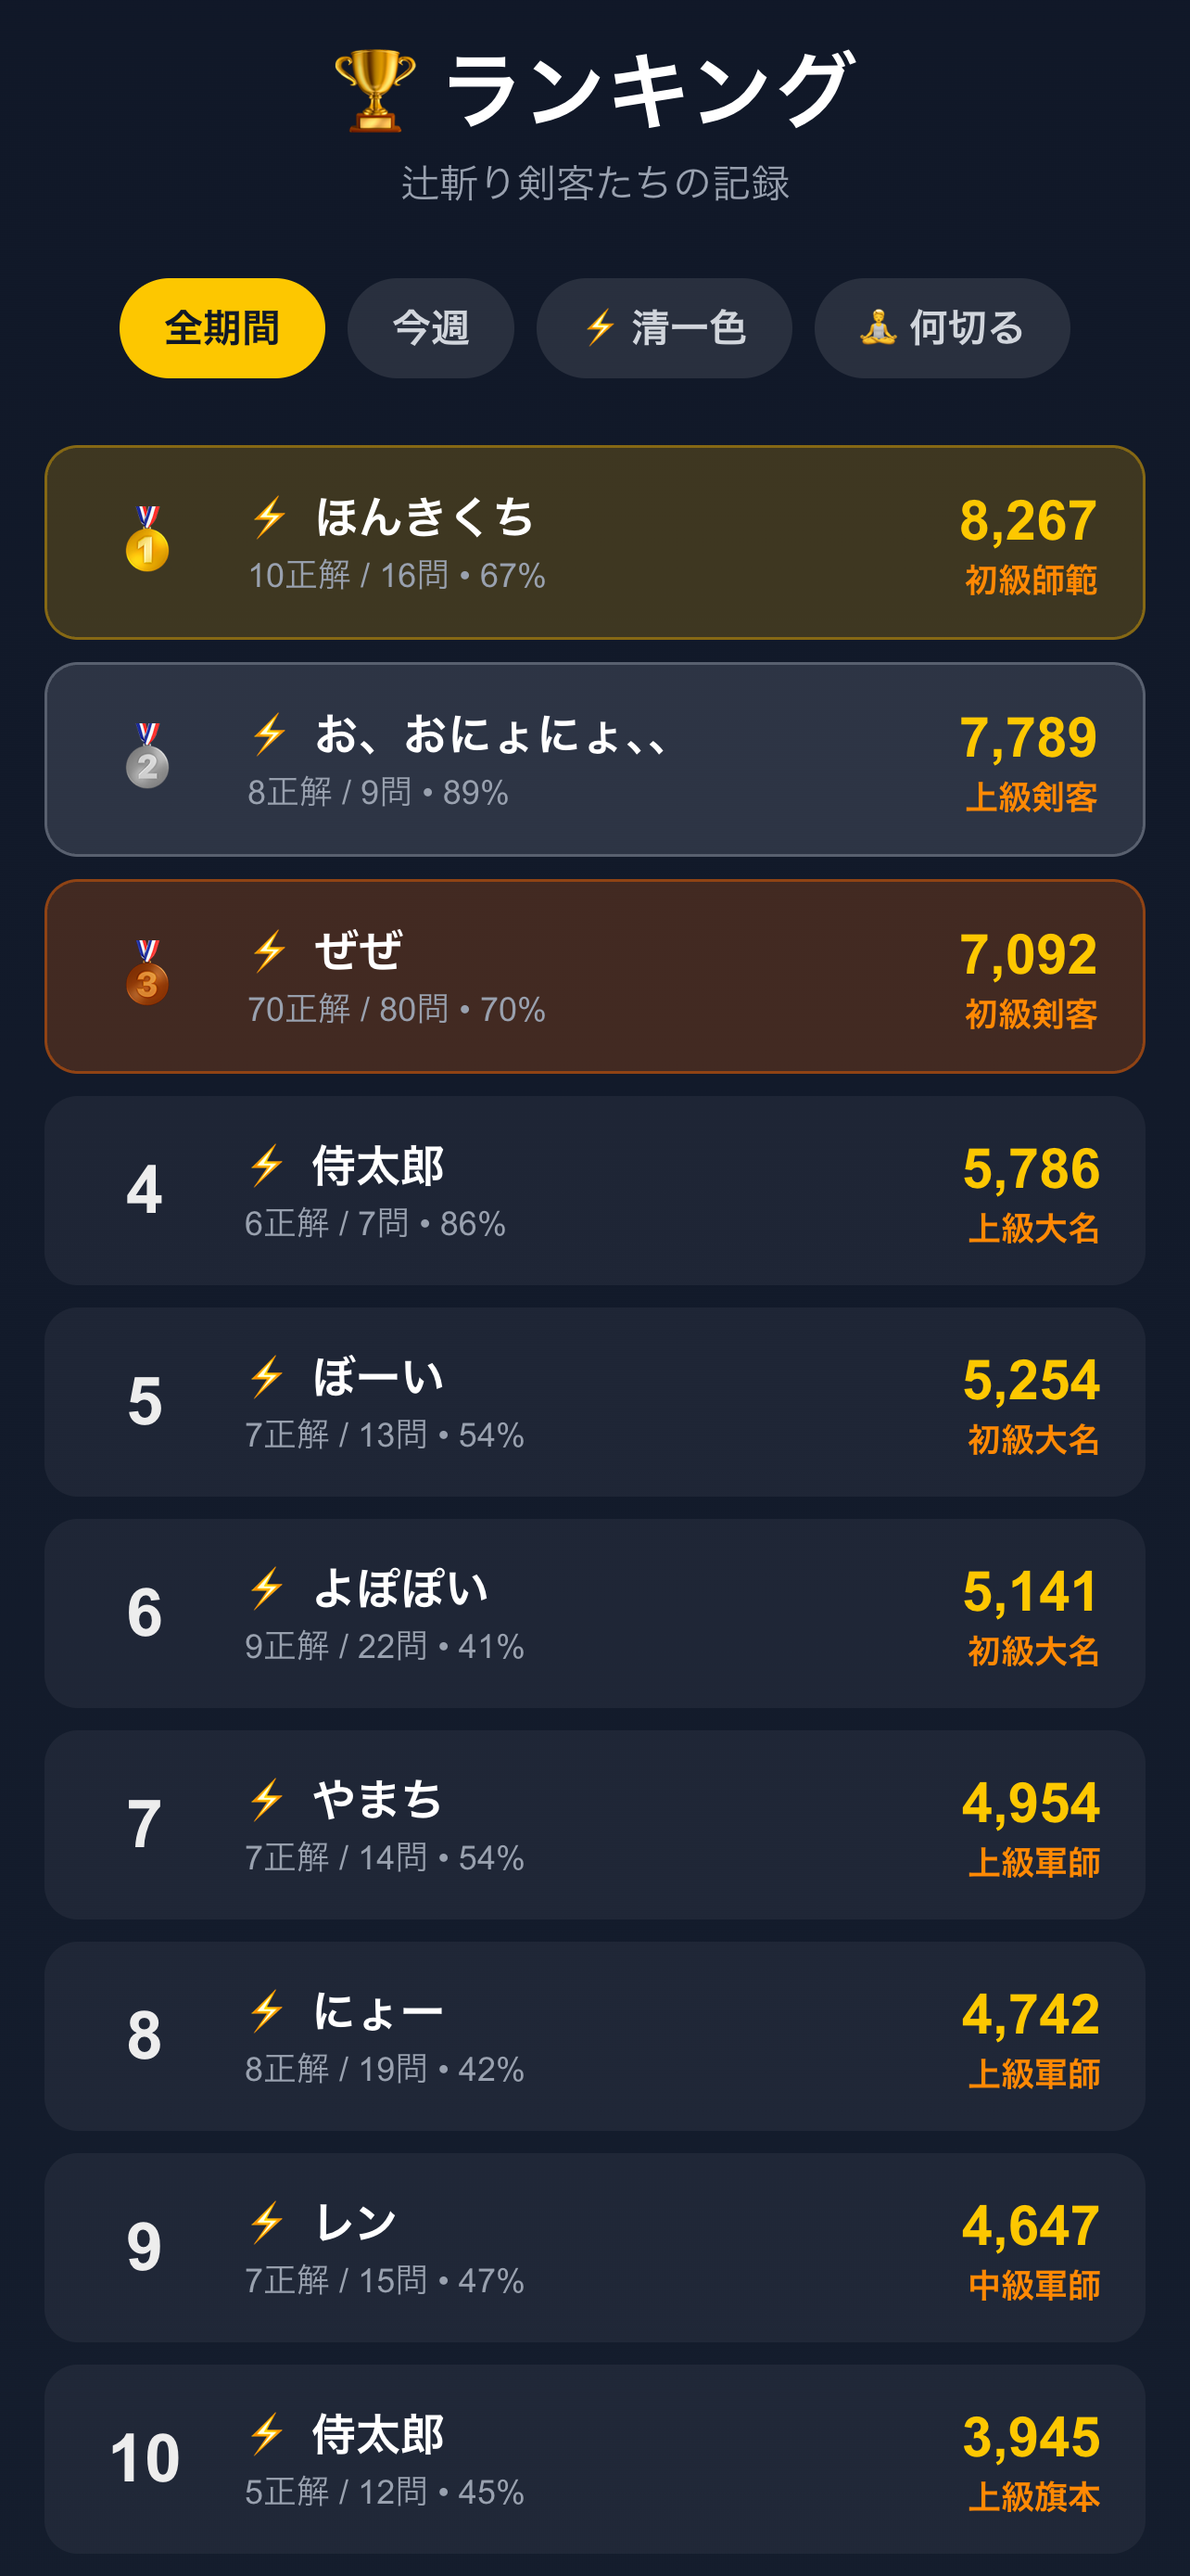
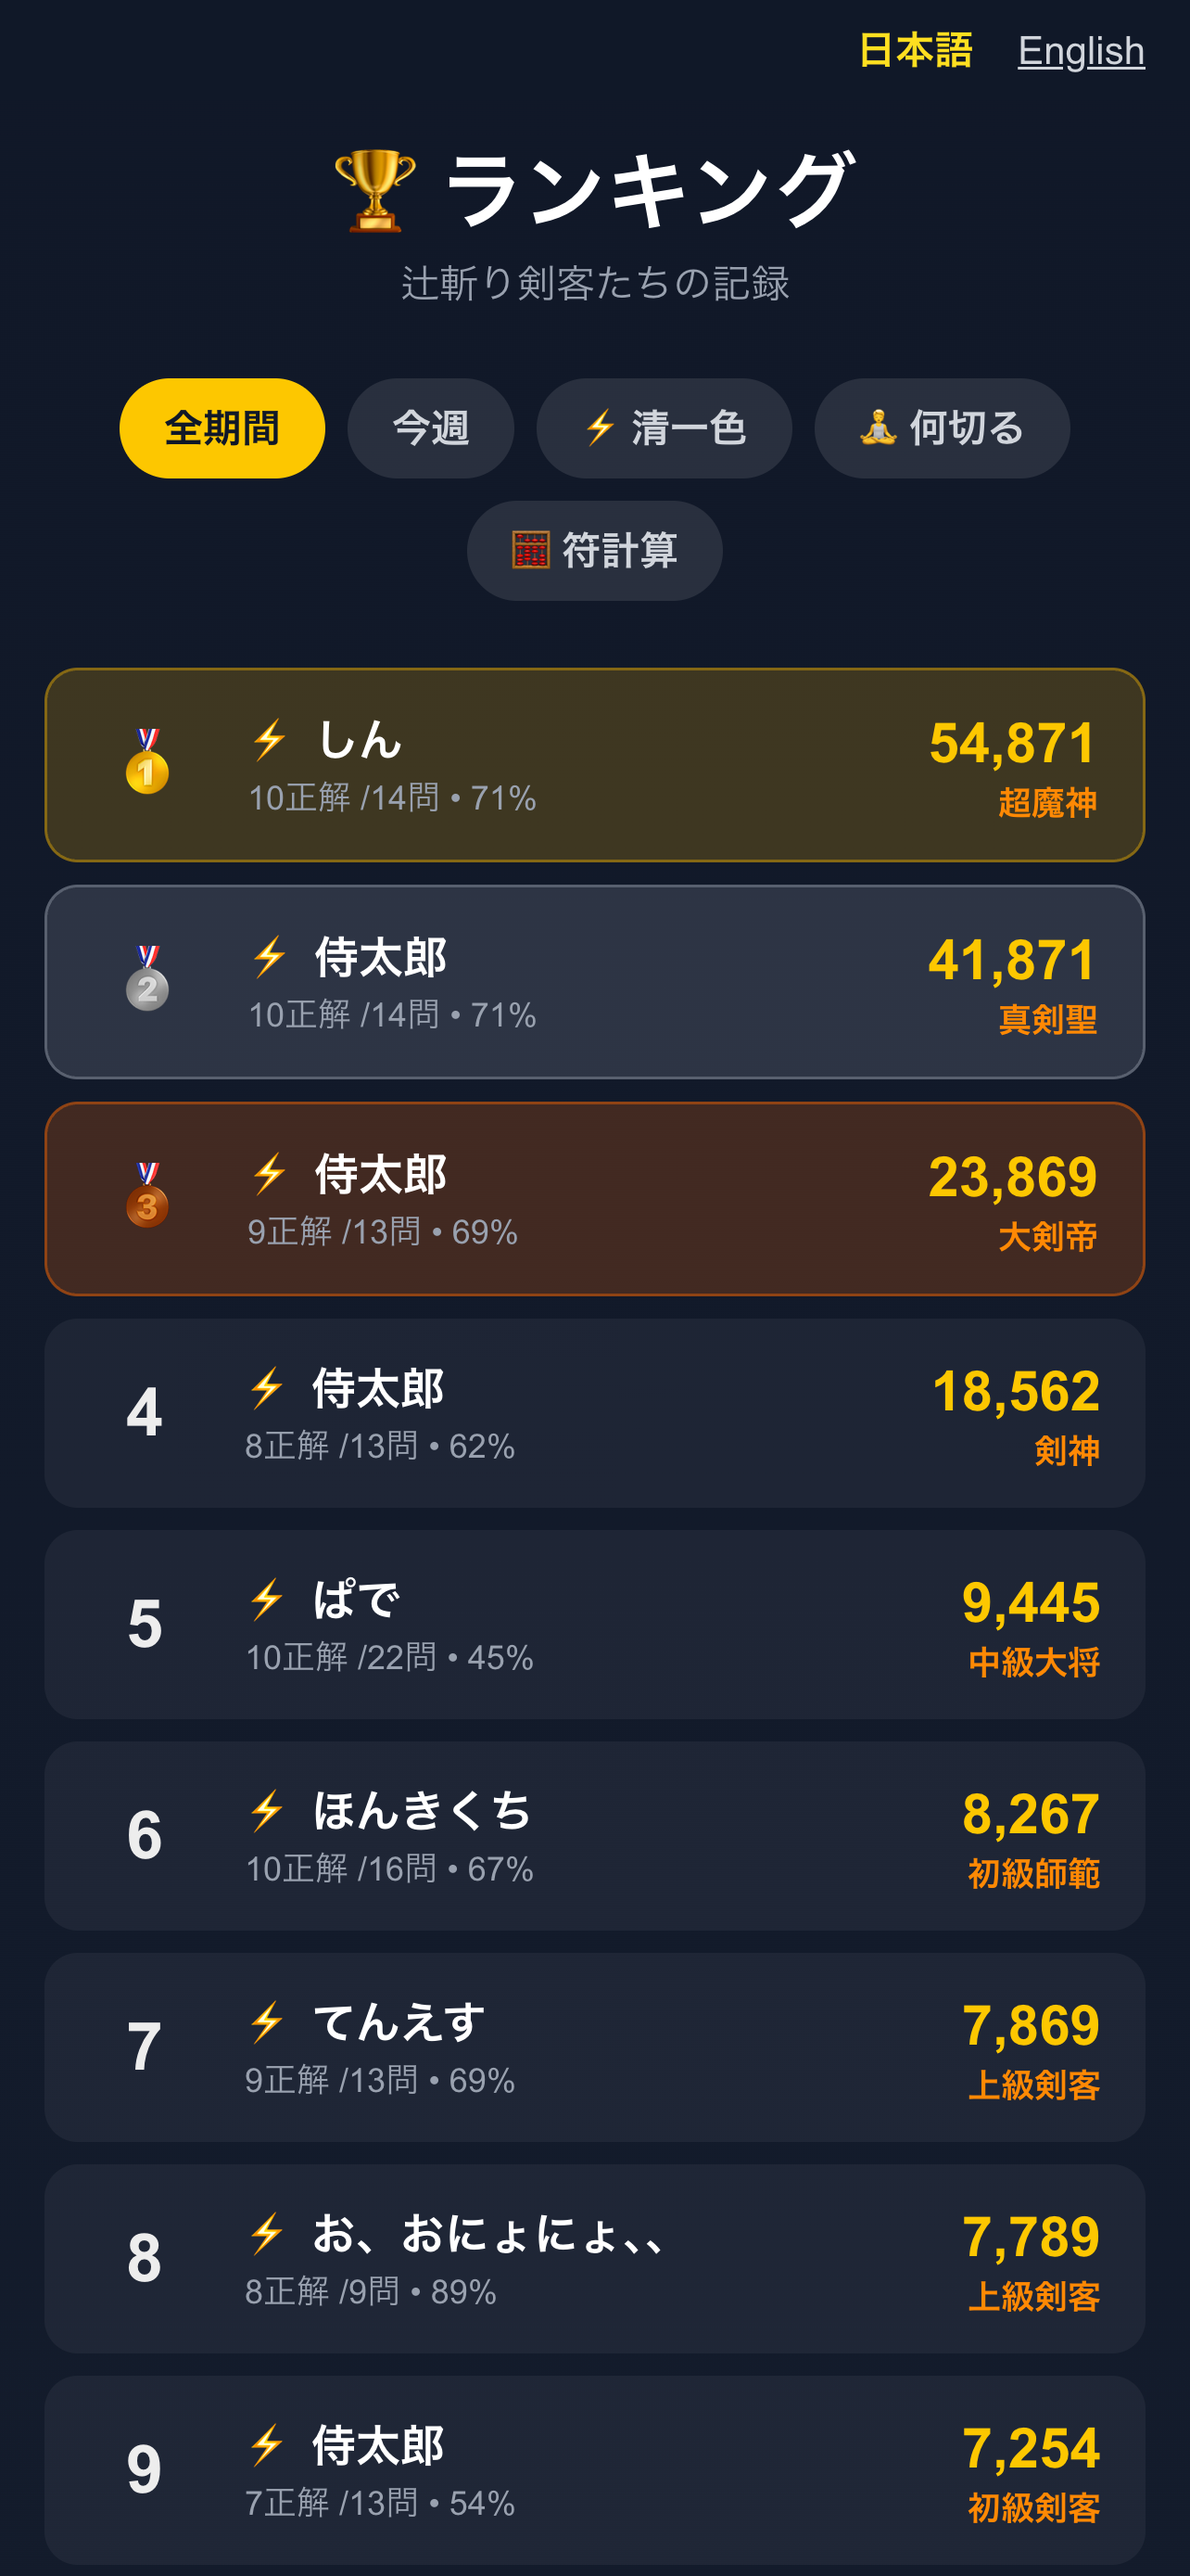
chore(store): refresh the Japanese screenshots for 1.2.0
The set carried over from 1.1.1 showed two modes, which contradicts release
notes announcing Fu Practice as the headline feature. Regenerate from the
deployed site, and add the 6.9-inch size that neither locale had.

diff --git a/store-assets/closed-test-invitation.md b/store-assets/closed-test-invitation.md
@@ -1,0 +1,151 @@
+# 麻雀 辻斬る！ クローズドテスト 招待文（フォーム版・一通で完結）
+
+TransLoopと同じ仕組み（Googleフォーム→スプレッドシート→Apps Script自動送信）を辻斬る用に構築。
+**Googleフォームは公開済み・動作確認済み**。スプレッドシートの列追加とApps Scriptだけは、この
+セッションの自動操作では保存が反映されない制約に当たったため、下記をコピペで手動セットアップしてください（3分程度）。
+
+## 送る前に
+
+クローズドテストは **Play Consoleに事前登録したGmailアドレスの人だけ**が参加できます。
+「Gmailアドレスを教えてもらう」を、**Googleフォーム**で自動化する設計です。
+
+### 運用フロー
+1. 下記の文面を**1通**送る（フォームのリンク入り）
+2. 相手がフォームに「お名前」「Gmailアドレス」を入力 → 自動でスプレッドシートに記録
+3. jellyさんが [スプレッドシート](https://docs.google.com/spreadsheets/d/1C_bDtgVvCHzuppHo1uXWrLgNzAaKVOJHu-vcLrmL0RU/edit) を開き、
+   届いたGmailアドレスをPlay Consoleのメーリングリストにコピペ登録
+   （※ここだけは公式APIがなく手動です）
+4. 登録できたら、スプレッドシートの **D列のチェックボックスをON** にする
+   → GAS（Apps Script）が自動でダウンロードリンク付きの案内メールを送信
+   → E列に「送信済み」と記録される
+
+### 現状データ（2026-09-11時点）
+- Play Consoleのメーリングリストに**既に8人登録済み**（まーちゃお3・テスト3・友人1・部外1）
+  ※TransLoopと同じテスターグループを流用している模様
+- インストール済みユーザー数: 2人（Play Console実績）
+- **12人以上必要なので、あと4人以上**
+- クローズドテスト参加リンク（Android）: `https://play.google.com/apps/testing/com.orangezely.mahjongtsujigiru`
+
+---
+
+## 送る文面（これ1通でOK）
+
+```
+【お願い】アプリのテストに協力してもらえませんか？
+
+「麻雀 辻斬る！」という、何切るクイズ・符計算クイズで牌効率を鍛えられる
+麻雀アプリを作りました。
+
+正式リリース前のテストで、12人以上に14日間使ってもらう必要があり、
+声をかけさせてもらいました！Androidのスマホをお持ちでしたら、
+1分だけお時間いただけると助かります🙏
+
+① 下記フォームに「お名前」「Androidで使っているGmailアドレス」を入力
+　https://forms.gle/Lyikm4Qgzqj9EP1i6
+
+②登録が完了したら、こちらからダウンロード用リンクをメールで
+　お送りします（数分〜数時間かかることがあります）
+
+③届いたメールのリンクを開いて「テスターになる」→
+　「Google Playでダウンロード」の順にタップ
+　（※アプリ名が一時的に「com.orangezely.mahjongtsujigiru」と表示されますが、
+　　審査が通るまでの仕様なので、それで大丈夫です）
+
+④何切る問題か符計算問題を1問解くだけでOK！
+　サインインなしでもすぐ試せます。
+
+テスト期間: 登録日から14日間
+※期間中、たまにアプリを開いてもらえるだけで大丈夫です。
+※期間中はアンインストールせずに置いていただけると助かります🙏
+※気づいたこと・使いにくい点があれば、このトークに送ってもらえると嬉しいです。
+
+よろしくお願いします！
+```
+
+---
+
+## 補足（聞かれたときに）
+
+- **何のアプリ？**: 麻雀の「何切る」クイズと符計算クイズで牌効率・符計算を鍛えられるトレーニングアプリ。60秒タイムアタックやランキングもある。
+- **なんでフォーム入力が必要？**: Google Playのクローズドテストは、開発者が事前に登録したGoogleアカウントにしか配信できない仕様のため。登録以外の用途では使いません。
+- **個人情報は大丈夫？**: サインインなしでも全機能使えます（ゲストプレイ可）。
+- **お金はかかる？**: 無料で1日10回まで各モード遊べます。テストなので課金は不要です。
+- **なぜテストが必要？**: Google Playのルールで、一般公開の前に「12人以上×14日間」のクローズドテストが必須のため。
+
+---
+
+## 参考リンク（2026年9月11日時点）
+
+| 用途 | URL |
+|---|---|
+| 参加申込フォーム（協力者に送る・公開済み） | https://forms.gle/Lyikm4Qgzqj9EP1i6 |
+| フォームの回答スプレッドシート（jelly さん用） | https://docs.google.com/spreadsheets/d/1C_bDtgVvCHzuppHo1uXWrLgNzAaKVOJHu-vcLrmL0RU/edit |
+| クローズドテスト参加リンク（Android） | https://play.google.com/apps/testing/com.orangezely.mahjongtsujigiru |
+| Play Console（辻斬るのクローズドテスト管理） | https://play.google.com/console/u/0/developers/5695586909313287362/app/4974971242394298112/closed-testing |
+
+---
+
+## 手動セットアップ手順（jellyさん作業・3分）
+
+### ① スプレッドシートにD列・E列を追加
+上記スプレッドシートを開き、C列の右に2列追加して見出しを入れる：
+- D列見出し: `Play Console登録済み`（D2以降をチェックボックスにする：D2:D200を選択 → 挿入 → チェックボックス）
+- E列見出し: `送信ステータス`
+
+### ② Apps Scriptを設定
+スプレッドシートのメニュー「拡張機能」→「Apps Script」を開き、新しいスクリプトファイルを追加して以下を貼り付け：
+
+```javascript
+function onEditInstallable(e) {
+  var sheet = e.range.getSheet();
+  var col = e.range.getColumn();
+  var row = e.range.getRow();
+  if (col !== 4 || row === 1) return;
+  if (e.value !== 'TRUE') return;
+  var statusCell = sheet.getRange(row, 5);
+  var status = statusCell.getValue().toString();
+  if (status.indexOf('送信済み') === 0) return;
+  var name = sheet.getRange(row, 2).getValue();
+  var email = sheet.getRange(row, 3).getValue();
+  if (!email) return;
+  var testingUrl = 'https://play.google.com/apps/testing/com.orangezely.mahjongtsujigiru';
+  var subject = '【麻雀 辻斬る！】クローズドテストのご案内';
+  var lines = [];
+  lines.push(name + ' 様');
+  lines.push('');
+  lines.push('この度は「麻雀 辻斬る！」のクローズドテストにご協力いただきありがとうございます。');
+  lines.push('Play Console側の登録が完了しましたので、下記のリンクからテスターとして参加し、アプリをダウンロードしてください。');
+  lines.push('');
+  lines.push(testingUrl);
+  lines.push('');
+  lines.push('①上記リンクを開く');
+  lines.push('②「テスターになる」を選択（初回のみ確認画面が出ます）');
+  lines.push('③「Google Playでダウンロード」からアプリをインストール');
+  lines.push('');
+  lines.push('※反映まで数分〜数時間かかることがあります。');
+  lines.push('※アプリ名が一時的に「com.orangezely.mahjongtsujigiru」と表示されますが、審査が通るまでの仕様なので問題ありません。');
+  lines.push('※テスト期間中はアンインストールせずに置いていただけると助かります。');
+  lines.push('');
+  lines.push('よろしくお願いいたします。');
+  var body = lines.join('\n');
+  GmailApp.sendEmail(email, subject, body);
+  statusCell.setValue('送信済み ' + new Date());
+}
+```
+
+保存後、左側時計アイコン「トリガー」→「トリガーを追加」で以下を設定：
+- 実行する関数: `onEditInstallable`
+- イベントのソース: `スプレッドシートから`
+- イベントの種類: `編集時`
+
+保存時にGmail送信の権限承認（自分のアカウントで）を求められるので許可してください。
+
+### ③ 動作確認
+D列のチェックボックスを1つONにして、E列に「送信済み」と入り、対象のメールアドレスに案内メールが届けば完成です。
+
+### 仕組みのポイント（TransLoopと同じ）
+- D列チェックボックスをONにすると、onEditトリガーが起動し、GmailApp経由で案内メールを自動送信します（E列に送信済み記録）。
+- 二重送信防止済み（E列が「送信済み」で始まっていれば再送しません）。
+- Play Console公式には「メーリングリストへの外部登録API」が存在しないため、**手動登録の一手間だけ**はどうしても残ります。
+
+※14日間のカウントは**各テスターがオプトインした日**から始まるため、製品版を申請できる日は最後に参加した人次第です。

diff --git a/docs/english-release.md b/docs/english-release.md
@@ -93,3 +93,13 @@ What works on both platforms is to stop requesting extension-less paths. `static
 The iOS `StaticExportRouter` is kept even though the web-layer fix now covers this case. The two are not redundant: the router repairs *any* full load of an extension-less path, including deep links into `/game/`, which Android has no equivalent hook for.
 
 Verified on a Pixel emulator: the app launches into English on an English device, `/en/index.html` is served with the `(en)` chunks, tapping 日本語 loads `/index.html` with the `(ja)` chunks, and the safe-area padding behaves as it does on iOS. Re-verified on the iOS simulator after the same change.
+
+## App Store Connect listing entry (2026-09-18)
+
+Build 8 uploaded (Delivery UUID `c87add85-b510-496a-8871-f5736d892192`) and reached `VALID`. A 1.2.0 version record was created (`ae79c99a-78af-49a6-9e08-0713b96665ba`, `PREPARE_FOR_SUBMISSION`, release type manual) and build 8 is attached to it.
+
+The app had only a `ja` localization. Creating the `en-US` app-info localization also creates the matching version localization, so the English copy is written with a PATCH rather than a POST. Both locales' text is read from `store-assets/listing-en-US.json` and `store-assets/appstore-listing-ja.md` rather than retyped, so the store and the drafts cannot drift. The Japanese subtitle, keywords, description, promotional text, release notes, privacy-policy URL and marketing/support URLs were updated to the 1.2.0 drafts.
+
+The Japanese screenshots were replaced. The set carried over from 1.1.1 showed only two modes, which contradicts release notes that announce Fu Practice, so `shoot-store.mjs ja` regenerated them from the deployed site and the stale images were deleted. A 6.9-inch set was added for both locales, which neither had before. Nine English and nine Japanese screenshots are uploaded across 6.9-inch, 6.5-inch and 13-inch iPad, and App Store Connect reports every one `COMPLETE` with no errors.
+
+Nothing has been submitted for review. That still waits on the AdMob privacy message being published and on device testing of consent and purchases.

diff --git a/STATUS.md b/STATUS.md
@@ -14,8 +14,9 @@
 - [ ] **実機**でUMP（EEA初回・拒否・選択変更・オフライン）と購入の復元を確認する
 - [ ] `.env.local` に広告IDを設定（iOSリワード／Android3種が未設定。未設定の枠はテスト広告＝収益ゼロ）
 - [x] `xcrun altool --upload-app` でbuild 8を送信（2026-09-18、Delivery UUID c87add85-b510-496a-8871-f5736d892192）
-- [ ] App Store Connectにen-USロケールを作成して入稿する（現在は `ja` のみ）
-- [ ] v1.2.0 のバージョンレコードを作成し、build 8 を紐づけて審査提出する
+- [x] v1.2.0のバージョンレコード作成（`ae79c99a-78af-49a6-9e08-0713b96665ba`）＋build 8紐づけ
+- [x] App Store Connectにen-USロケールを作成し、日英とも掲載情報を入稿（スクショ各9枚、全てCOMPLETE）
+- [ ] **審査提出**（上のAdMob・実機確認が済んでから）
 - [ ] AdMobでApp Storeのアプリとのリンク状態と `app-ads.txt` の認識を再確認する
 - [x] 独自ドメイン取得済み。アプリ関連URLは `tsujigiri.orangezely.com` に統一した
 
